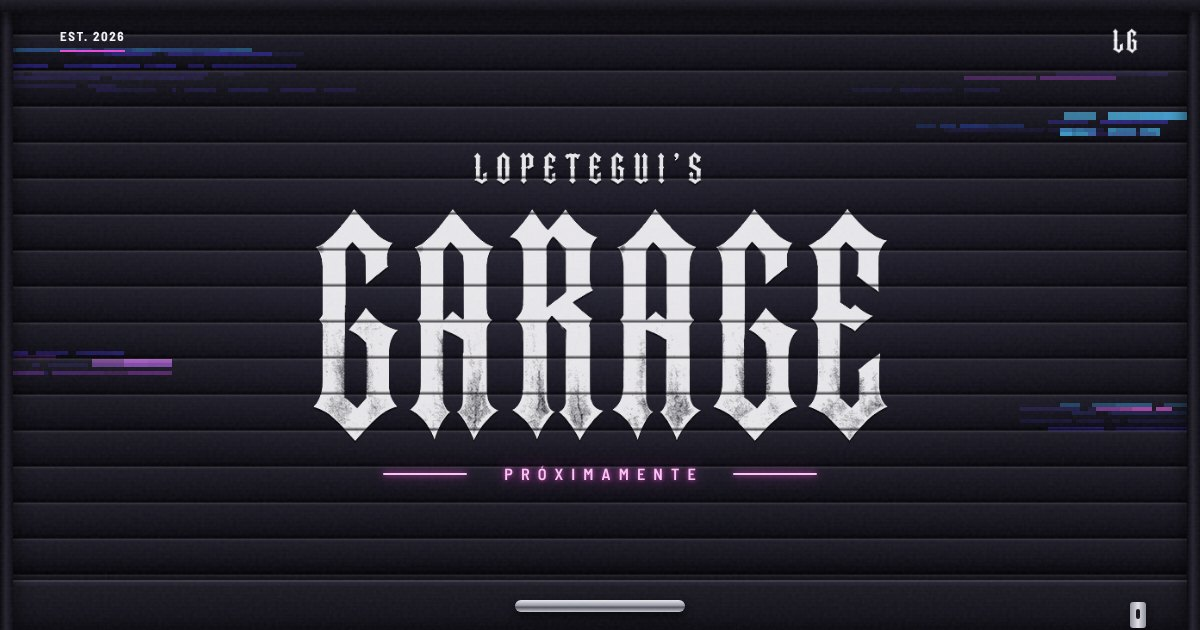
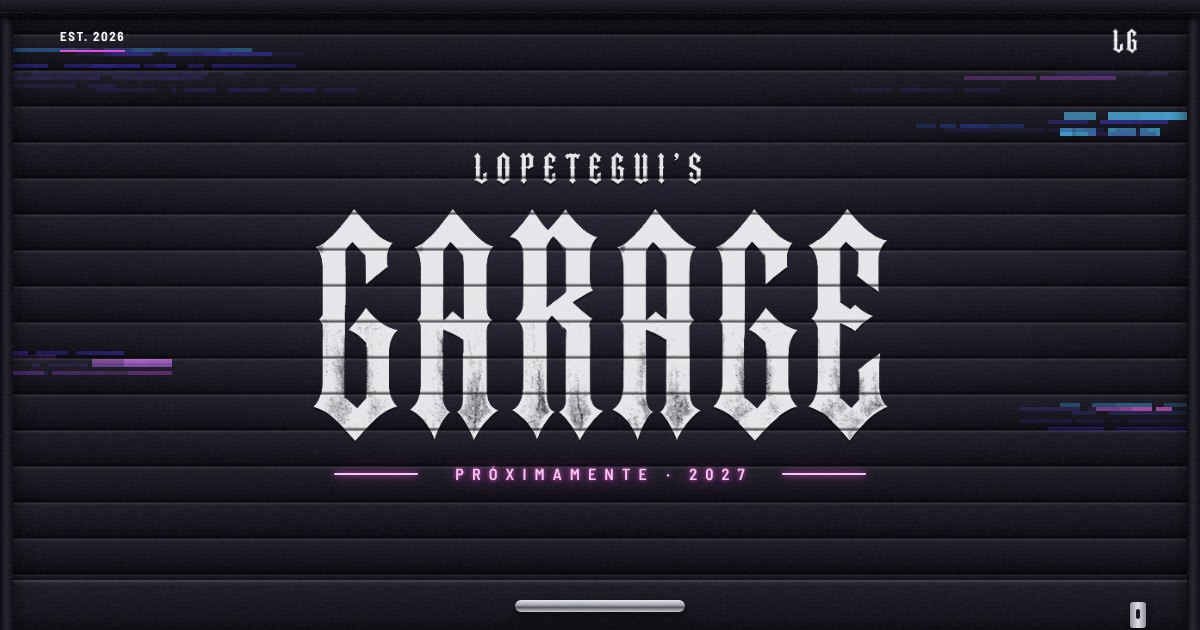
Announce the 2027 opening
- Neon reads "PRÓXIMAMENTE · 2027"; the closing lede says the garage
  opens in 2027; title, description, and Open Graph tags follow.
- On phones 380px and narrower the tube tightens its tracking and side
  lines so it stays on one line.
- Share image regenerated with the new tube; its URL carries ?v=2027 so
  apps that cached the old preview fetch the new one.
- PRODUCT.md records the 2027 opening as confirmed by the owner.

Claude-Session: https://claude.ai/code/session_011MpTb7imNEHgMnAiyTo4z3

Changed region(s): [[0.3392, 0.7238, 0.6475, 0.7841], [0.6783, 0.7238, 0.74, 0.7841], [0.2775, 0.7238, 0.3083, 0.7841]]

diff --git a/public/index.html b/public/index.html
@@ -4,21 +4,21 @@
 <meta charset="utf-8">
 <meta name="viewport" content="width=device-width,initial-scale=1,viewport-fit=cover">
 <meta name="theme-color" content="#020205">
-<meta name="description" content="Lopetegui's Garage — próximamente. EST. 2026. Síguenos en Instagram y TikTok para la apertura.">
-<meta property="og:title" content="Lopetegui's Garage — Próximamente">
+<meta name="description" content="Lopetegui's Garage abre en 2027. EST. 2026. Síguenos en Instagram y TikTok o déjanos tu correo para enterarte de la apertura.">
+<meta property="og:title" content="Lopetegui's Garage — Próximamente · 2027">
 <meta property="og:description" content="Built different. Made to last. Quality over quantity. Passion drives us.">
 <meta property="og:type" content="website">
 <meta property="og:site_name" content="Lopetegui's Garage">
 <meta property="og:url" content="https://lopeteguisgarage.com/">
-<meta property="og:image" content="https://lopeteguisgarage.com/og.jpg">
+<meta property="og:image" content="https://lopeteguisgarage.com/og.jpg?v=2027">
 <meta property="og:image:type" content="image/jpeg">
 <meta property="og:image:width" content="1200">
 <meta property="og:image:height" content="630">
-<meta property="og:image:alt" content="La persiana cerrada del taller con el logo de Lopetegui's Garage y el neón Próximamente">
+<meta property="og:image:alt" content="La persiana cerrada del taller con el logo de Lopetegui's Garage y el neón Próximamente · 2027">
 <meta name="twitter:card" content="summary_large_image">
 <link rel="canonical" href="https://lopeteguisgarage.com/">
 <link rel="apple-touch-icon" href="/apple-touch-icon.png">
-<title>Lopetegui's Garage — Próximamente</title>
+<title>Lopetegui's Garage — Próximamente · 2027</title>
[1 lines of base64/hex data omitted]
 <link rel="preconnect" href="https://fonts.googleapis.com">
 <link rel="preconnect" href="https://fonts.gstatic.com" crossorigin>
@@ -647,6 +647,13 @@ img{max-width:100%}
   .arrow.brk{width:44px;height:44px}
 }
 
+/* Celulares angostos: el tubo "Próximamente · 2027" cabe en una línea */
+@media(max-width:380px){
+  .neon{letter-spacing:.22em;gap:10px}
+  .neon span{white-space:nowrap}
+  .neon::before,.neon::after{width:20px}
+}
+
 @media(prefers-reduced-motion:reduce){
   html{scroll-behavior:auto}
   .garage{height:auto}
@@ -701,7 +708,7 @@ img{max-width:100%}
         </div>
         <div class="sh-center">
[1 lines of base64/hex data omitted]
-          <p class="neon ignite" id="neon"><span>Próximamente</span></p>
+          <p class="neon ignite" id="neon"><span>Próximamente · 2027</span></p>
         </div>
         <div class="sh-bottom">
           <a class="hint" href="#taller">Sube la persiana
@@ -737,7 +744,7 @@ img{max-width:100%}
     <div class="close-in">
[1 lines of base64/hex data omitted]
       <h2 class="close-title" id="closeTitle">Síguenos para la apertura</h2>
-      <p class="lede">Lopetegui’s Garage abre pronto. Síguenos para enterarte primero de la apertura y del primer merch.</p>
+      <p class="lede">Lopetegui’s Garage abre en 2027. Síguenos para enterarte primero de la apertura y del primer merch.</p>
       <div class="follow">
         <a class="btn brk" href="https://instagram.com/lopeteguisgarage" target="_blank" rel="noopener noreferrer">
           <svg viewBox="0 0 24 24" fill="none" stroke="currentColor" stroke-width="1.8" aria-hidden="true"><rect x="2.5" y="2.5" width="19" height="19" rx="5.5"/><circle cx="12" cy="12" r="4.3"/><circle cx="17.6" cy="6.4" r="1.1" fill="currentColor" stroke="none"/></svg>

diff --git a/PRODUCT.md b/PRODUCT.md
@@ -29,7 +29,7 @@ Abierto: el dueño todavía no ha definido en qué trabajará el taller (autos, 
 
 ## Brand Commitments
 
-- Nombre: Lopetegui's Garage. Monograma: LG. Fecha: EST. 2026.
+- Nombre: Lopetegui's Garage. Monograma: LG. Fecha: EST. 2026. Apertura prevista: 2027 (confirmada por el dueño; sin día ni mes).
 - Logo: "LOPETEGUI'S" sobre "GARAGE" en letra gótica (blackletter) con textura desgastada, recortado de `assets/desktop-reference.webp`. Monograma LG dentro de un marco de esquinas rosas.
 - Lemas en inglés: Built different, Made to last, Quality over quantity, Passion drives us.
 - El dueño pidió conservar los colores y el fondo de su página actual: negro #020205, rayas de glitch azul/violeta/rosa, "COMING SOON" en rosa con brillo, scanlines y ruido.
